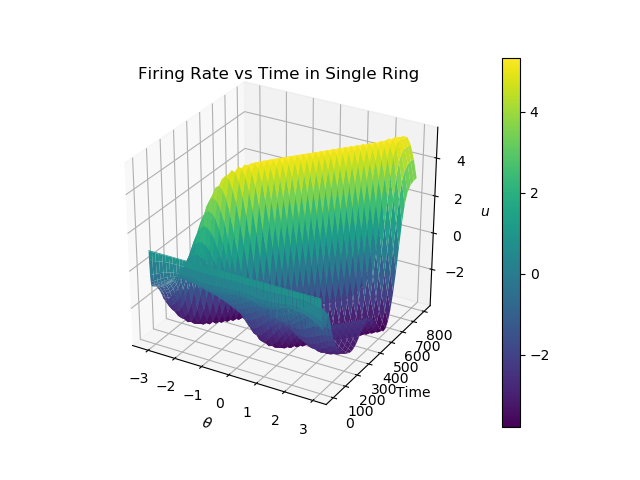
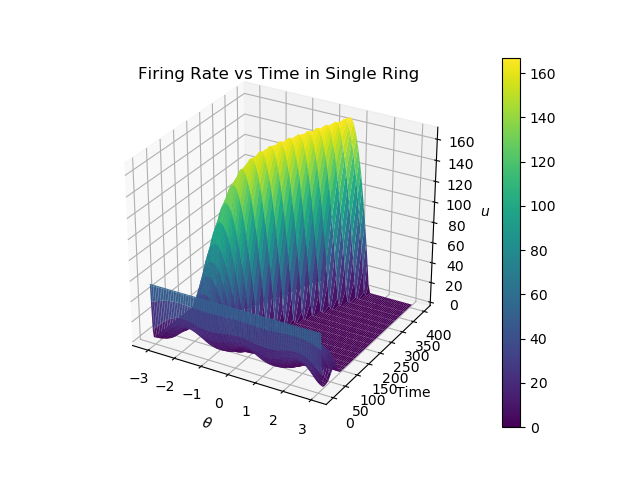
actually plotting firing rates, not energy levels, so things are no longer negative.

diff --git a/singleRing/singleRing.py b/singleRing/singleRing.py
@@ -105,7 +105,7 @@ def sys(t, u):
     f = sigma(u)
 
     du = (1/Tau)*(-u + (1/len(u)) * np.matmul(W, f))
-    #du = np.maximum(du, 0)
+   # du = np.maximum(du, 0)
     
     return du
 
@@ -160,7 +160,7 @@ def plotWeights(x, y1, y2, y3):
 
 if __name__=="__main__":
     # set number of spatial discretizations
-    N = 50
+    N = 100
 
     # set up theta space
     x = np.linspace(-np.pi, np.pi, N, endpoint=False)
@@ -173,11 +173,20 @@ if __name__=="__main__":
     # create initial condiitions
     u0 = initialCondRand(x)
 
-    sol = solve_ivp(sys, [0, 800], u0)
+    sol = solve_ivp(sys, [0, 400], u0)
    
     timeGrid, thetaGrid = np.meshgrid(sol.t, x)
+    
+    # Recall sol is energy levels, not actual firing rates. 
+    # step through each time slice, rectify accordingly (pass thru sig) 
+  
+    (m, n) = sol.y.shape
+    firingRate = np.zeros((m, n))
+    for i in range(n):
+        firingRate[:, i] = sigma(sol.y[:, i])
 
-    #print(((sol.y).shape, timeGrid.shape, thetaGrid.shape))
+     
+    
 
-    plot3d(thetaGrid, timeGrid, sol.y)
+    plot3d(thetaGrid, timeGrid, firingRate)
 
